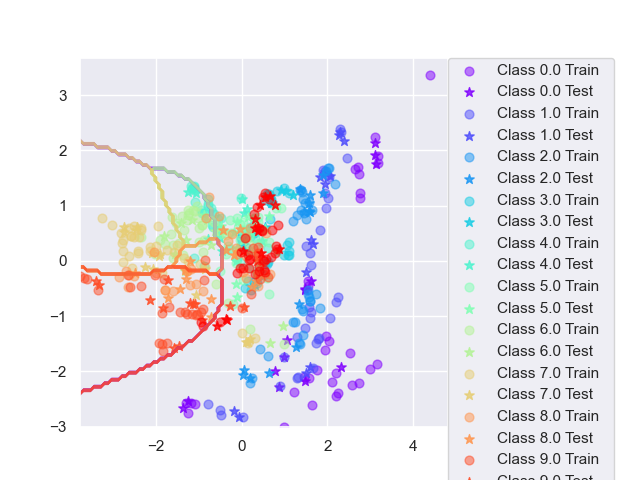
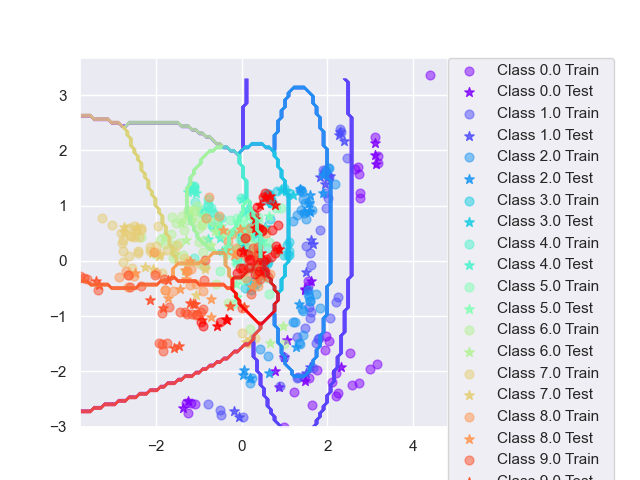
Q5 done

diff --git a/src/Bayes_boosting/lab3py/lab3.py b/src/Bayes_boosting/lab3py/lab3.py
@@ -18,7 +18,7 @@
 
 import numpy as np
 from scipy import misc
-from imp import reload
+#from imp import reload
 from labfuns import *
 import random
 import math
@@ -161,20 +161,21 @@ class BayesClassifier(object):
 # Call `genBlobs` and `plotGaussian` to verify your estimates.
 
 
-X, labels = genBlobs(centers=5)
-mu, sigma = mlParams(X,labels)
-plotGaussian(X,labels,mu,sigma)
+# X, labels = genBlobs(centers=5)
+# mu, sigma = mlParams(X,labels)
+# plotGaussian(X,labels,mu,sigma)
 
 
 # Call the `testClassifier` and `plotBoundary` functions for this part.
 
+# print("Test classifieres: iris")
+# testClassifier(BayesClassifier(), dataset='iris', split=0.7)
+# plotBoundary(BayesClassifier(), dataset='iris',split=0.7)
 
-testClassifier(BayesClassifier(), dataset='iris', split=0.7)
-plotBoundary(BayesClassifier(), dataset='iris',split=0.7)
-
-
-# testClassifier(BayesClassifier(), dataset='vowel', split=0.7)
-# plotBoundary(BayesClassifier(), dataset='vowel',split=0.7)
+print("Test classifieres: vowels")
+testClassifier(BayesClassifier(), dataset='vowel', split=0.7)
+print("Plot Boundary: vowels")
+plotBoundary(BayesClassifier(), dataset='vowel',split=0.7)
 
 
 
@@ -294,15 +295,17 @@ class BoostClassifier(object):
 # 
 # Call the `testClassifier` and `plotBoundary` functions for this part.
 
-print('boost')
-testClassifier(BoostClassifier(BayesClassifier(), T=10), dataset='iris',split=0.7)
+# print('Test boosted iris')
+# testClassifier(BoostClassifier(BayesClassifier(), T=10), dataset='iris',split=0.7)
+# print('plot boundary iris')
+# plotBoundary(BoostClassifier(BayesClassifier()), dataset='iris',split=0.7)
+
+print('Test boosted vowels')
+testClassifier(BoostClassifier(BayesClassifier(), T=10), dataset='vowel',split=0.7)
+print('plot boundary vowel')
+plotBoundary(BoostClassifier(BayesClassifier(), T=10), dataset='vowel',split=0.7)
 
 
-#testClassifier(BoostClassifier(BayesClassifier(), T=10), dataset='vowel',split=0.7)
-
-
-print('iris')
-plotBoundary(BoostClassifier(BayesClassifier()), dataset='iris',split=0.7)
 
 
 # Now repeat the steps with a decision tree classifier.
